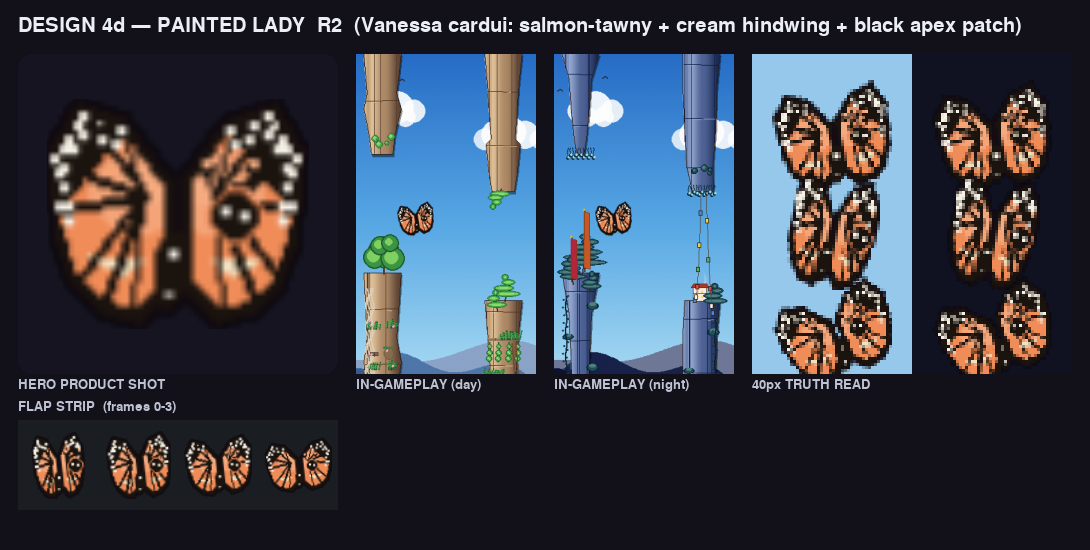
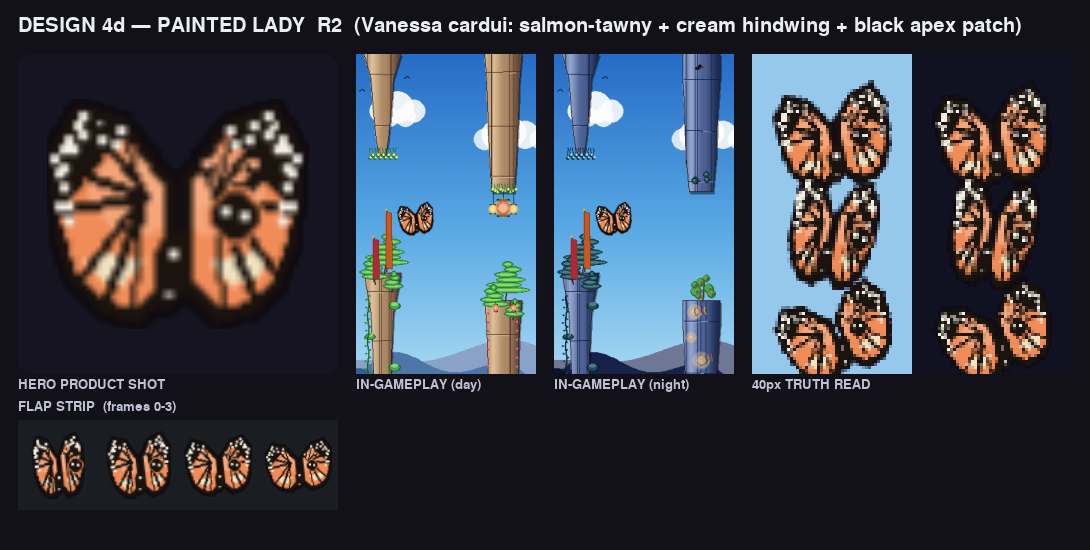
bee/monarch-variants design_4d PAINTED LADY R2
Claude-Session: https://claude.ai/code/session_01K6KPJsdtoYoDR2za2Jqnmo

diff --git a/tools/bee_candidates/design_4d.py b/tools/bee_candidates/design_4d.py
@@ -57,8 +57,12 @@ def _draw_wing(surf, side, spread, nx):
     def _pull(p, frac):
         return (p[0] + (fcx - p[0]) * frac, p[1] + (fcy - p[1]) * frac)
     cream = _new()
-    zone = [_pull(fill[6], 0.36), _pull(fill[7], 0.40),
-            _pull(fill[8], 0.36), _pull(fill[9], 0.30)]
+    # A rounded pale lobe: an outer arc sitting inside the margin (orange still
+    # frames it below + outboard) rising to a single inner point near the
+    # centroid — enough area to read as its own zone rather than a sliver.
+    zone = [_pull(fill[6], 0.26), _pull(fill[7], 0.24),
+            _pull(fill[8], 0.26), _pull(fill[9], 0.32),
+            _pull(fill[7], 0.58)]
     pygame.draw.polygon(cream, (*CREAM, 255), zone)
     cream.blit(_wing_mask(fill), (0, 0), special_flags=pygame.BLEND_RGBA_MIN)
     surf.blit(cream, (0, 0))

diff --git a/tools/bee_candidates/_render_design_4d.py b/tools/bee_candidates/_render_design_4d.py
@@ -17,8 +17,8 @@ from game.entities import Pipe
 from game.config import W as GW, H as GH, GROUND_Y
 from tools.bee_candidates.design_4d import build
 
-OUT = "docs/store_redesign/animal/bee/design_4d/round_1.png"
-TITLE = "DESIGN 4d — PAINTED LADY  R1  (Vanessa cardui: salmon-tawny + cream hindwing + black apex patch)"
+OUT = "docs/store_redesign/animal/bee/design_4d/round_2.png"
+TITLE = "DESIGN 4d — PAINTED LADY  R2  (Vanessa cardui: salmon-tawny + cream hindwing + black apex patch)"
 NIGHT_PHASE = 0.64375
 
 def _label(surf, text, x, y, size=18, color=(236, 238, 246)):
